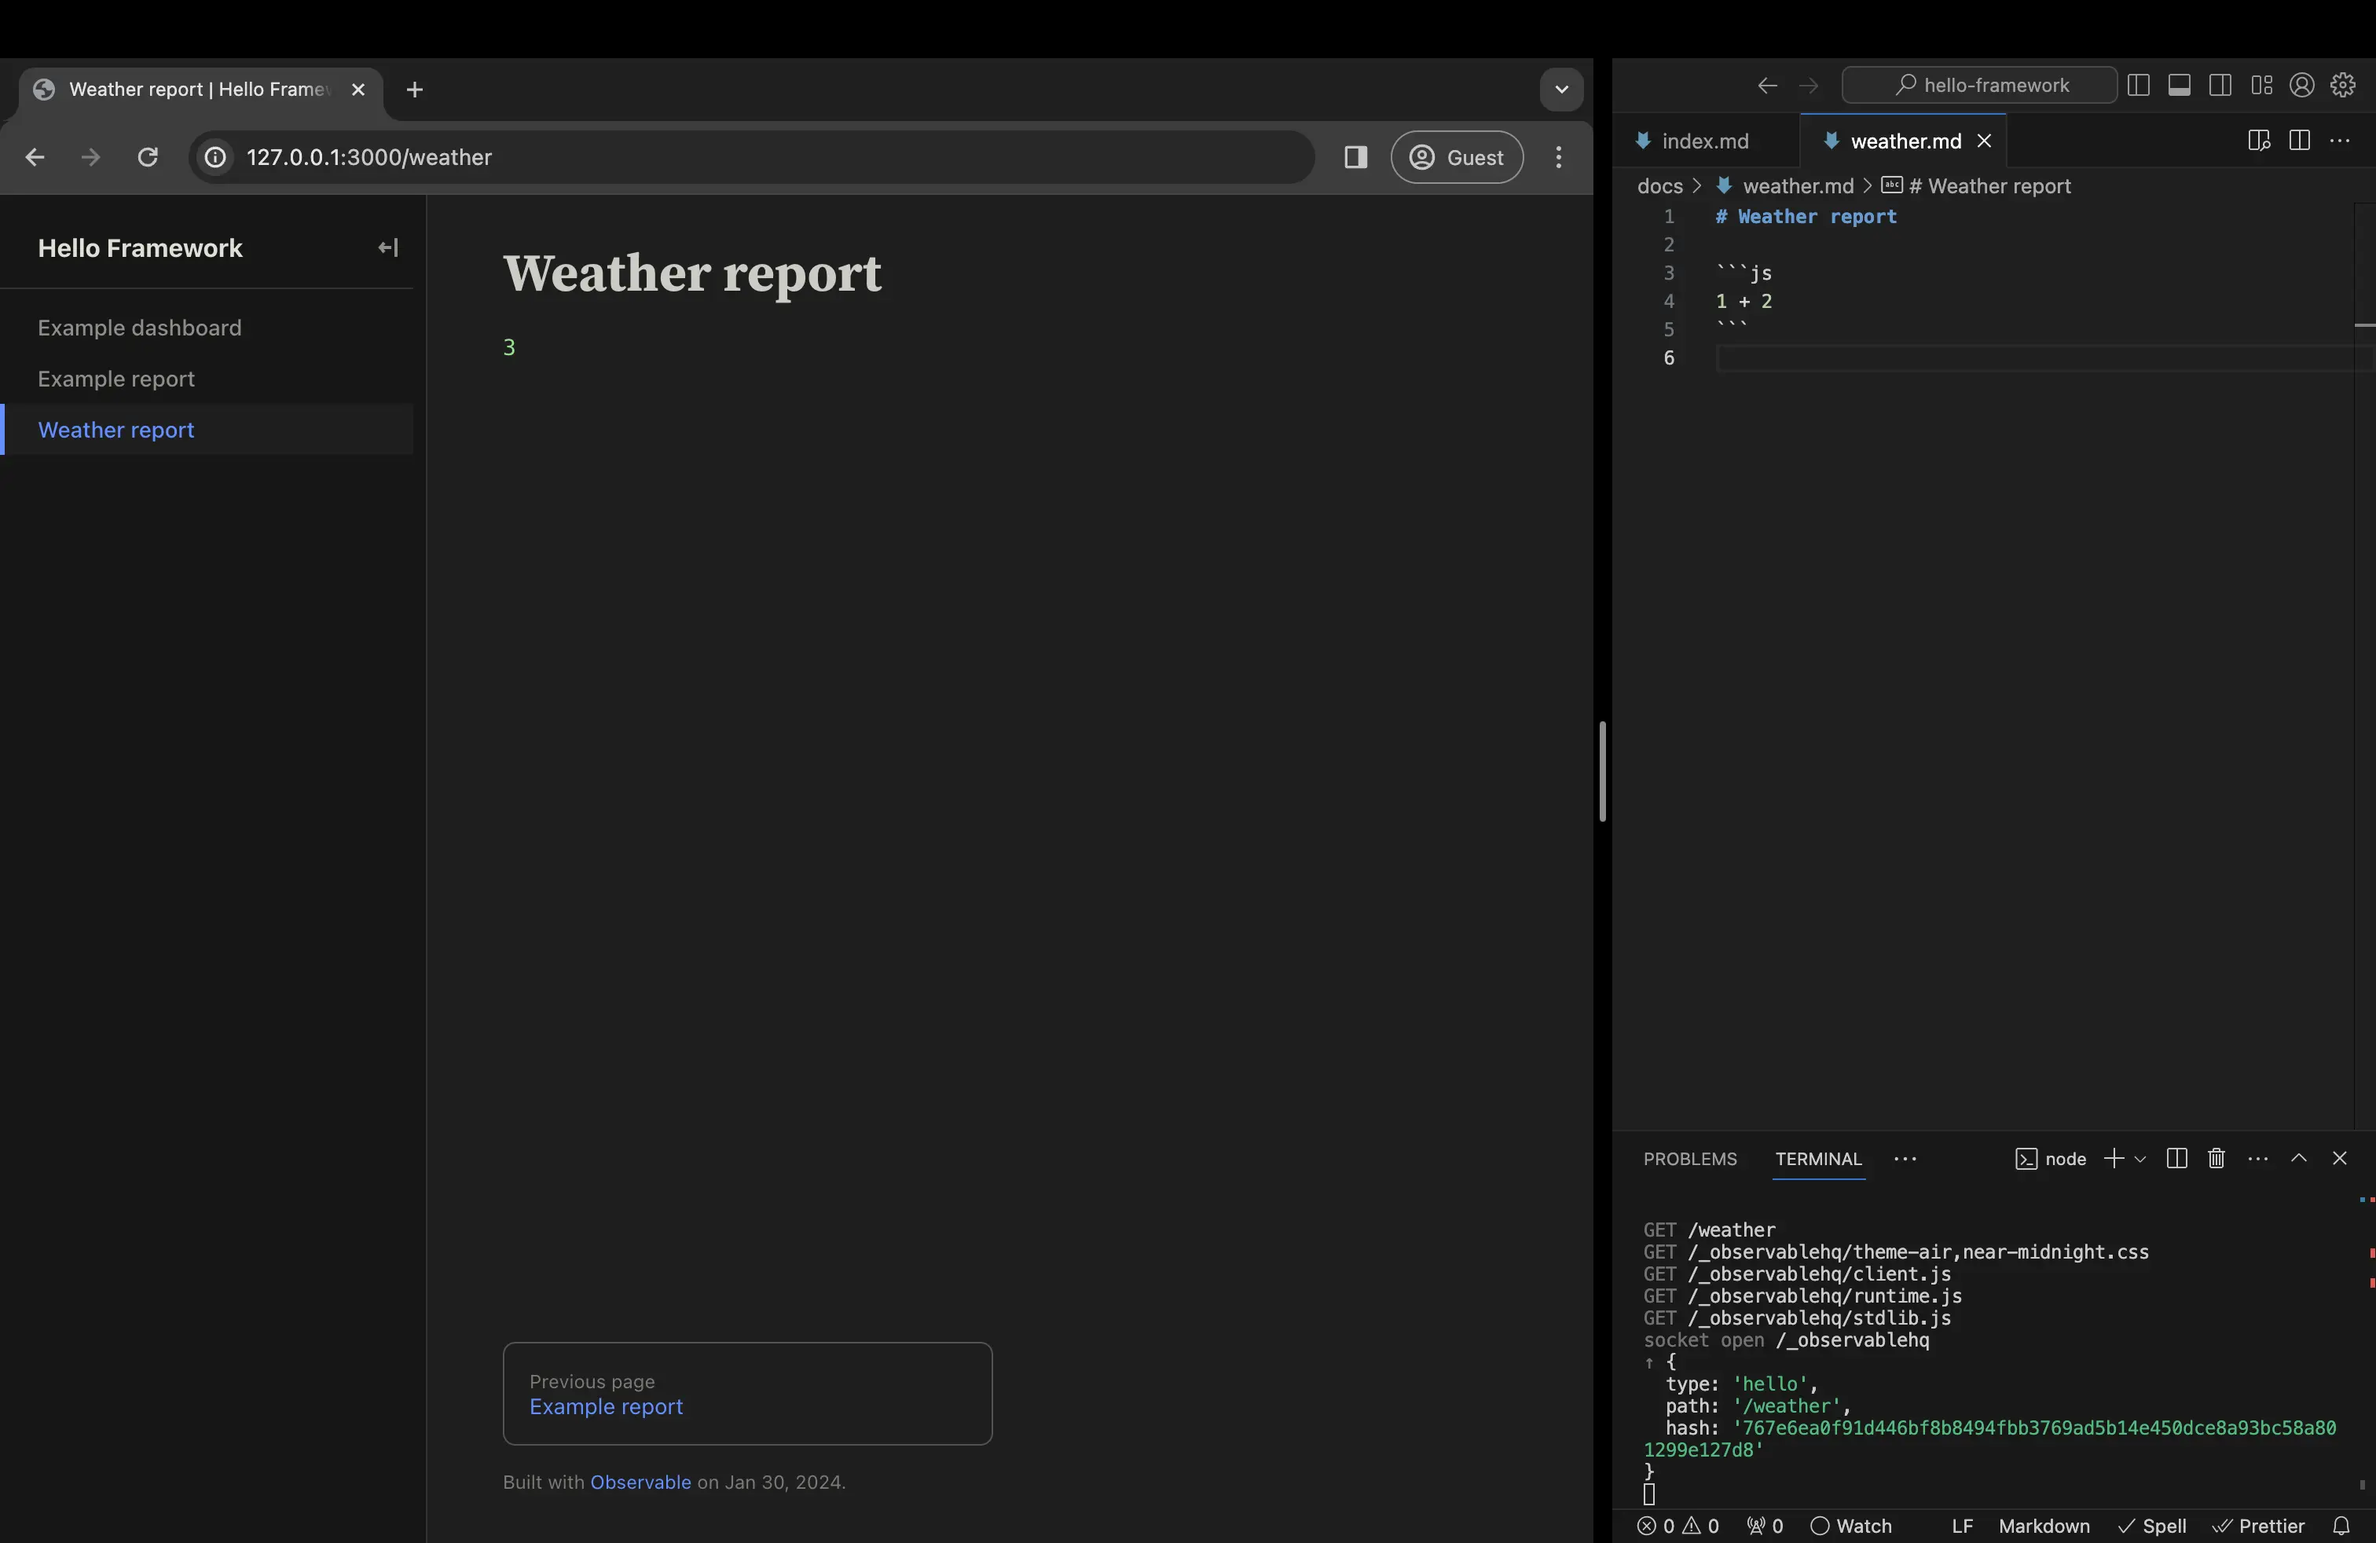
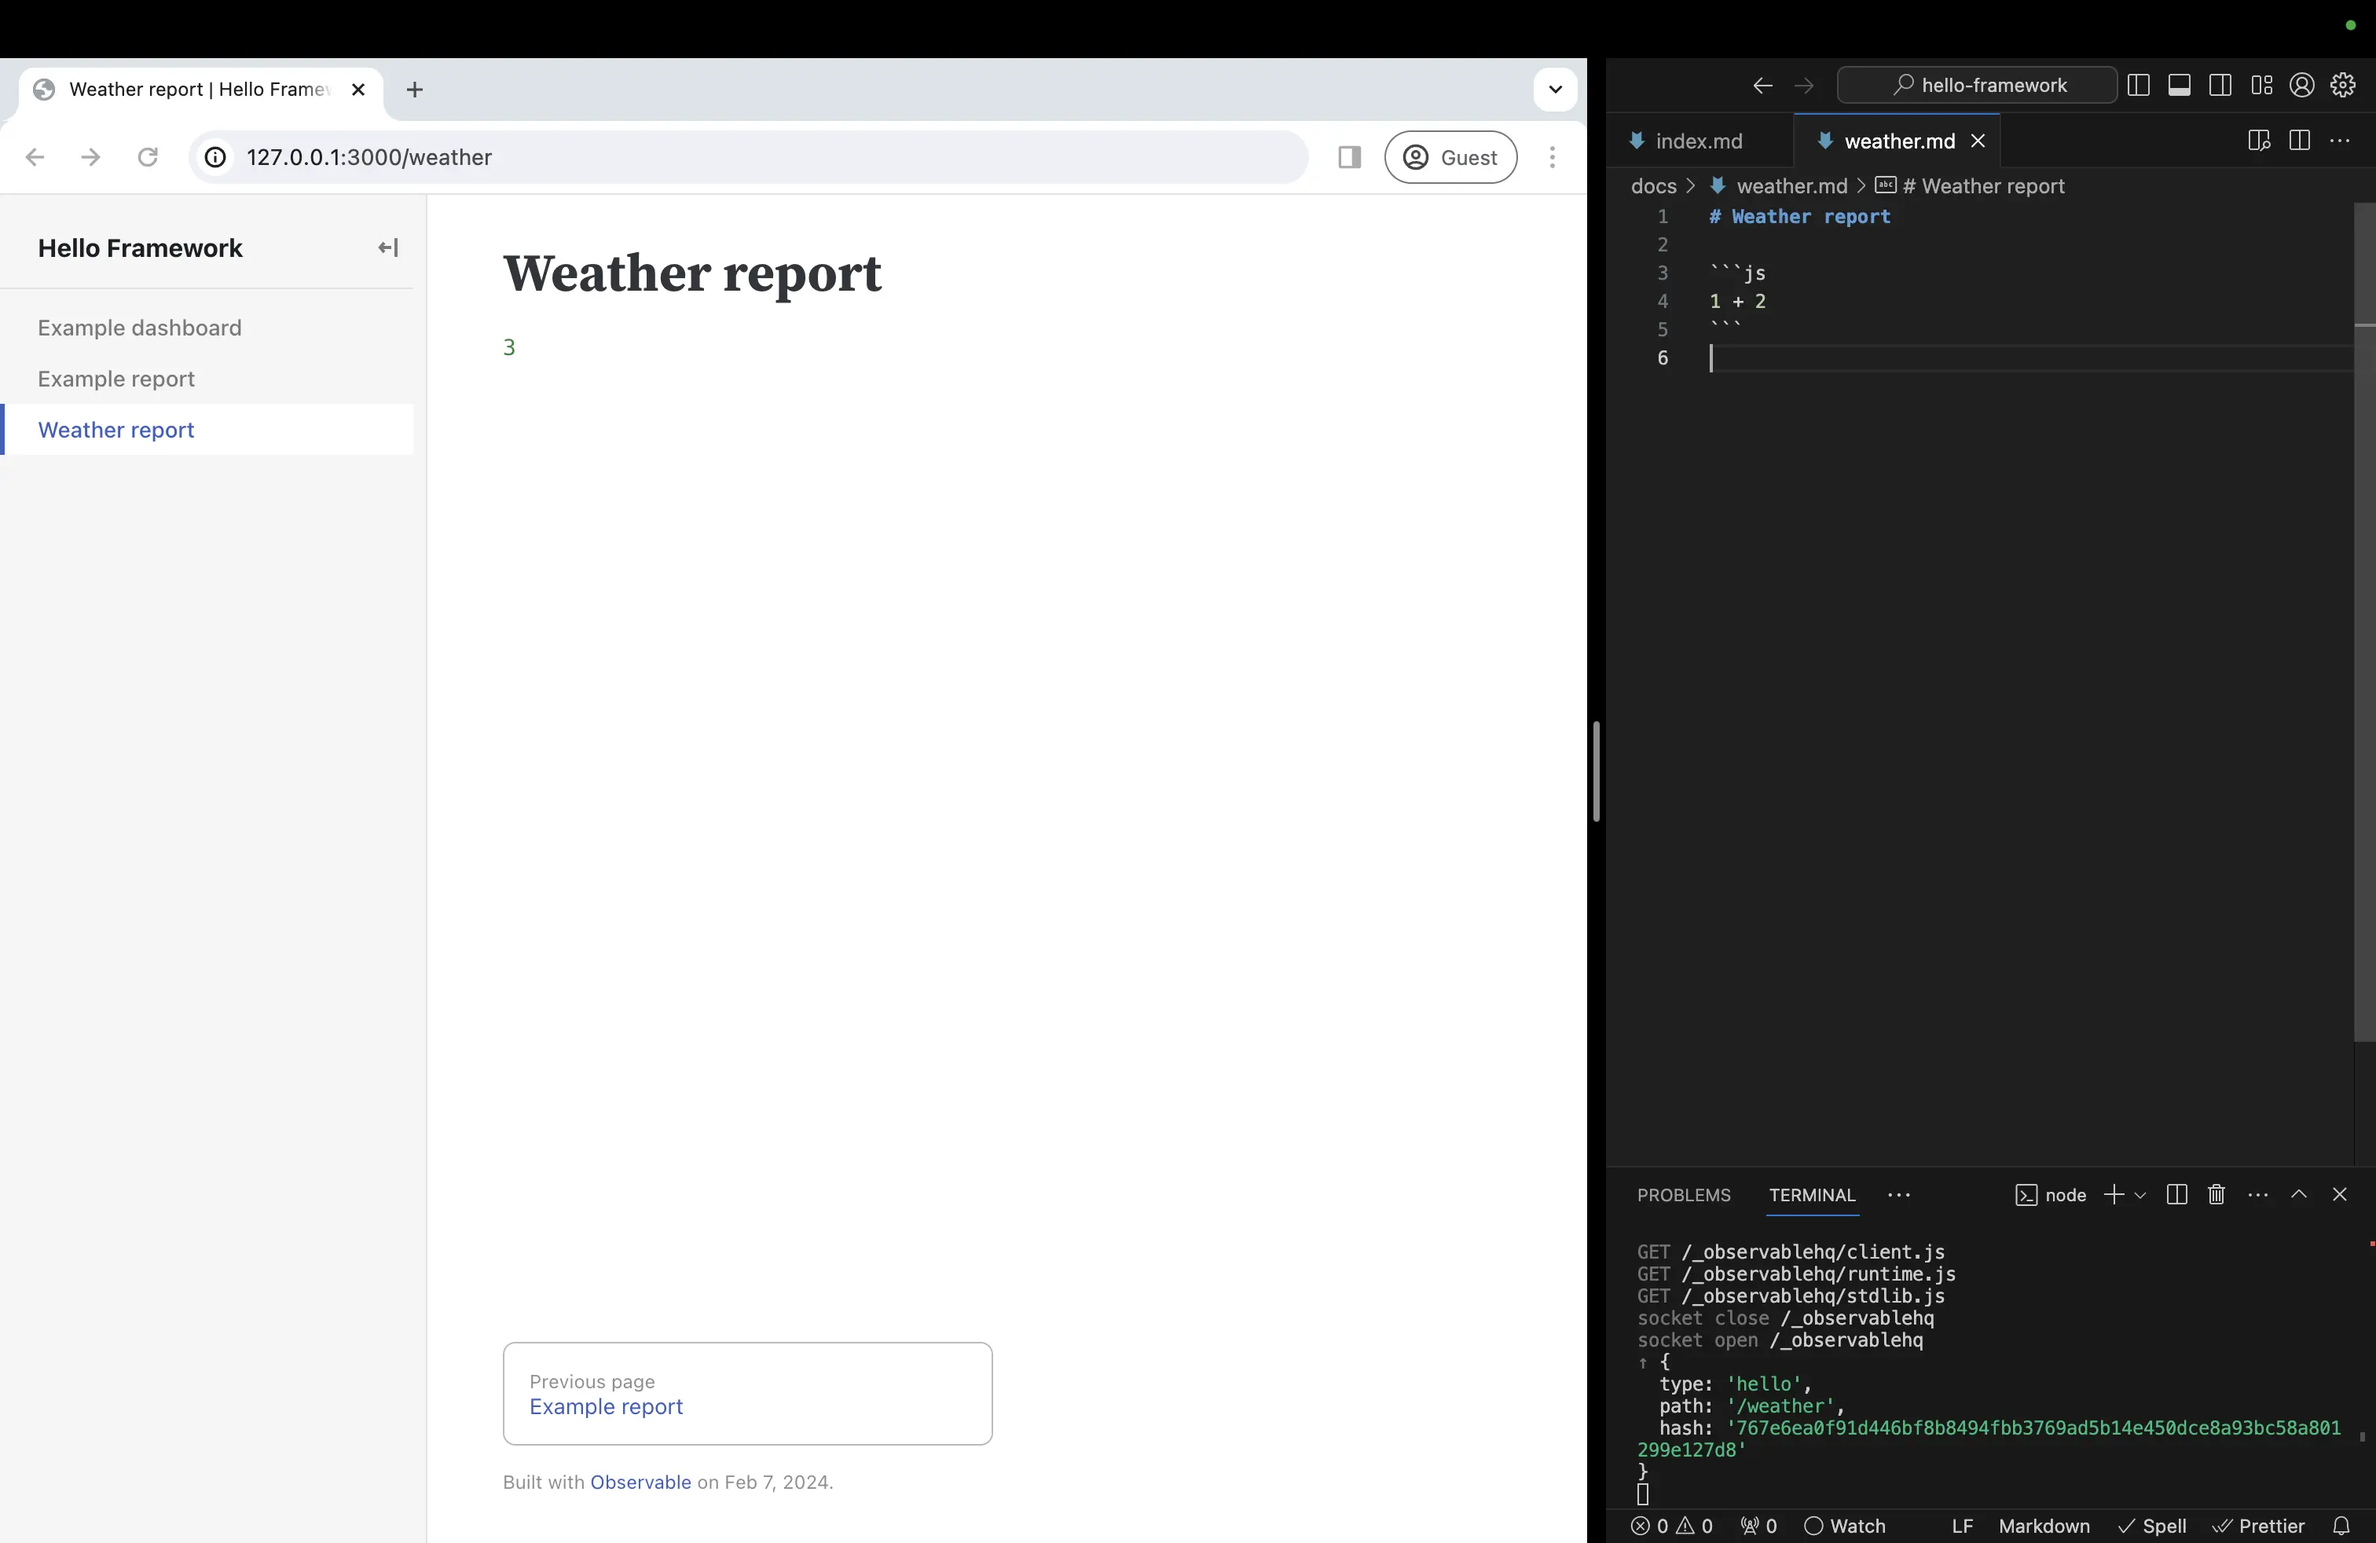
responsive screenshots (#717)
* responsive screenshots

* note outline

diff --git a/docs/getting-started.md b/docs/getting-started.md
@@ -11,10 +11,9 @@
 
 .crop {
   border-radius: 8px;
-  border: solid 1px #333;
   margin: 1rem;
   max-width: calc(100% - 2rem);
-  box-shadow: 0 6px 12px 6px rgba(0, 0, 0, 0.4);
+  box-shadow: 0 0 0 0.75px rgba(128, 128, 128, 0.2), 0 6px 12px 6px rgba(0, 0, 0, 0.4);
   aspect-ratio: 3024 / 1888;
   object-fit: cover;
   object-position: 0 100%;
@@ -193,10 +192,12 @@ And that’s it! After some downloading, copying, and installing, your new proje
 <span class="muted">│</span>
 <span class="green">◇</span>  Installed! 🎉
 <span class="muted">│</span>
-<span class="green">◇</span>  Next steps…
-<span class="muted">│</span>
-<span class="muted">│</span>  <span class="focus">cd ./hello-framework</span>
-<span class="muted">│</span>  <span class="focus">yarn dev</span>
+<span class="green">◇</span>  Next steps… <span class="muted">──────────╮</span>
+<span class="muted">│</span>                        <span class="muted">│</span>
+<span class="muted">│</span>  <span class="focus">cd ./hello-framework</span>  <span class="muted">│</span>
+<span class="muted">│</span>  <span class="focus">yarn dev</span>              <span class="muted">│</span>
+<span class="muted">│</span>                        <span class="muted">│</span>
+<span class="muted">├────────────────────────╯</span>
 <span class="muted">│</span>
 <span class="muted">└</span>  Problems? <u><a href="https://observablehq.com/framework/getting-started" style="color: inherit;">https://observablehq.com/framework/getting-started</a></u></pre>
 
@@ -231,7 +232,10 @@ You should see something like this:
 Now visit <http://127.0.0.1:3000> in your browser, which should look like:
 
 <figure class="wide">
-  <img loading="lazy" src="./getting-started/hello-framework.webp" style="aspect-ratio: 3248 / 2112;">
+  <picture>
+    <source srcset="./getting-started/hello-framework-dark.webp" media="(prefers-color-scheme: dark)">
+    <img loading="lazy" src="./getting-started/hello-framework.webp" style="aspect-ratio: 3248 / 2112;">
+  </picture>
   <figcaption>The default home page (<code>docs/index.md</code>) after creating a new project.</figcaption>
 </figure>
 
@@ -242,7 +246,10 @@ Live preview means that as you save changes, your in-browser preview updates ins
 To experience live preview, open <code>docs/index.md</code> in your preferred text editor — below we show Visual Studio Code — and position your browser window so that you can see your editor and browser side-by-side. If you then replace the text “Hello, Observable Framework” with “Hi, Mom!” and save, you should see:
 
 <figure class="wide">
-  <img loading="lazy" src="./getting-started/hi-mom.webp" class="crop">
+  <picture>
+    <source srcset="./getting-started/hi-mom-dark.webp" media="(prefers-color-scheme: dark)">
+    <img loading="lazy" src="./getting-started/hi-mom.webp" class="crop">
+  </picture>
   <figcaption>No seriously — hi, Mom! Thanks for supporting me all these years.</figcaption>
 </figure>
 
@@ -265,7 +272,10 @@ To see the new page in the sidebar, you must restart the preview server. In the 
 If you click on the **Weather report** link in the sidebar, it’ll take you to <http://127.0.0.1:3000/weather>, where you should see:
 
 <figure class="wide">
-  <img loading="lazy" src="./getting-started/hello-weather.webp" class="crop">
+  <picture>
+    <source srcset="./getting-started/hello-weather-dark.webp" media="(prefers-color-scheme: dark)">
+    <img loading="lazy" src="./getting-started/hello-weather.webp" class="crop">
+  </picture>
   <figcaption>The humble beginnings of a local weather dashboard.</figcaption>
 </figure>
 
@@ -366,7 +376,10 @@ display(forecast);
 This looks like:
 
 <figure class="wide">
-  <img loading="lazy" src="./getting-started/hello-data.webp" class="crop">
+  <picture>
+    <source srcset="./getting-started/hello-data-dark.webp" media="(prefers-color-scheme: dark)">
+    <img loading="lazy" src="./getting-started/hello-data.webp" class="crop">
+  </picture>
   <figcaption>Using <code>FileAttachment</code> to load data.</figcaption>
 </figure>
 
@@ -423,7 +436,10 @@ Plot.plot({
 You should now see:
 
 <figure class="wide">
-  <img loading="lazy" src="./getting-started/hello-plot.webp" class="crop">
+  <picture>
+    <source srcset="./getting-started/hello-plot-dark.webp" media="(prefers-color-scheme: dark)">
+    <img loading="lazy" src="./getting-started/hello-plot.webp" class="crop">
+  </picture>
   <figcaption>Using <code>Plot</code> to make a chart.</figcaption>
 </figure>
 
@@ -502,7 +518,10 @@ toc: false
 ```
 
 <figure class="wide">
-  <img loading="lazy" src="./getting-started/hello-grid.webp" class="crop">
+  <picture>
+    <source srcset="./getting-started/hello-grid-dark.webp" media="(prefers-color-scheme: dark)">
+    <img loading="lazy" src="./getting-started/hello-grid.webp" class="crop">
+  </picture>
   <figcaption>Adopting a grid layout and the <code>dashboard</code> theme.</figcaption>
 </figure>
 
